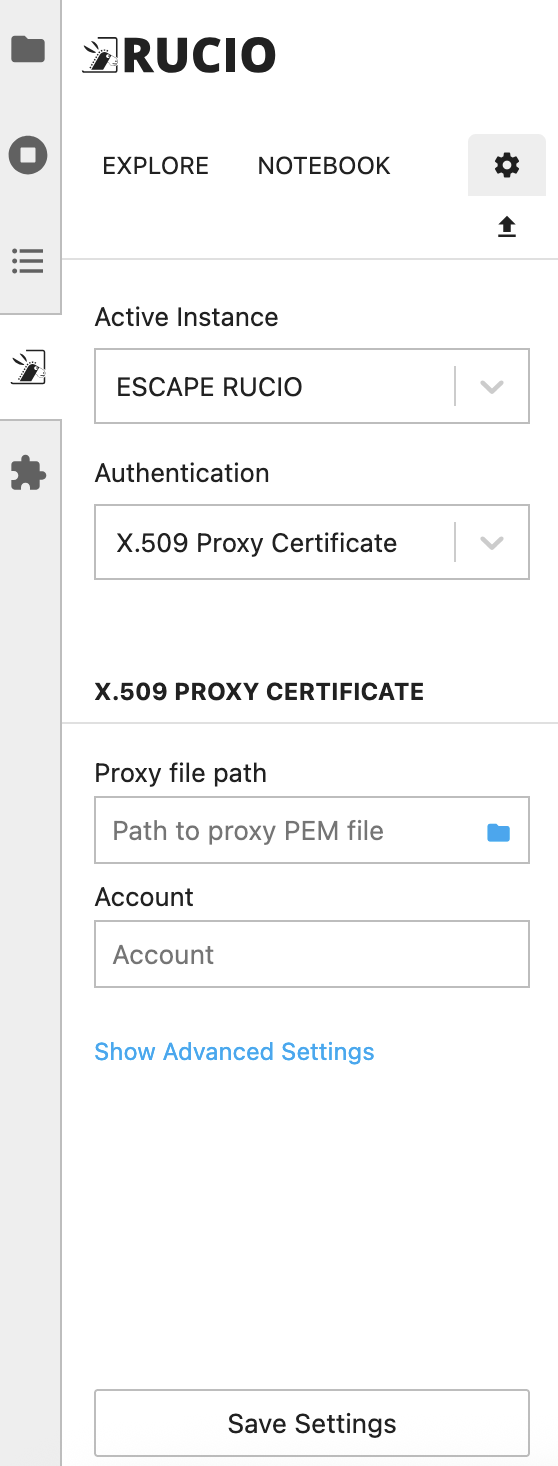
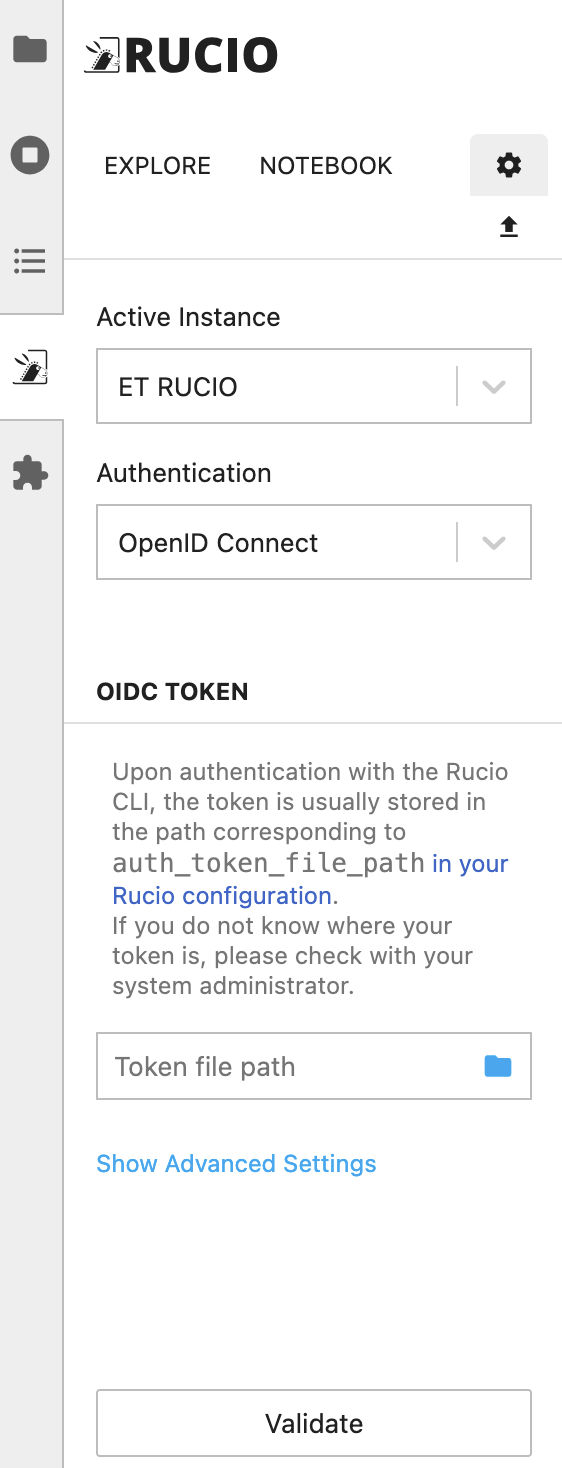
Update Rucio user docs

diff --git a/docs/source/user_guide.rst b/docs/source/user_guide.rst
@@ -237,27 +237,24 @@ Rucio enables centralized management of large volumes of data backed by many het
 The Rucio lab extension provides a user-friendly interface to interact with Rucio, allowing users to manage datasets, files, 
 and storage elements directly from JupyterLab.
 
-To use the Rucio lab extension, you need to have a **valid Rucio account** and the necessary permissions to access the data.
+The default Rucio deployment configured in the BETIF-DIFAET platform is the ``Rucio ET`` instance, specific for the Einstein 
+Telescope Virtual Organization (VO). 
 
-.. IMPORTANT::
+.. NOTE::
 
-   For the authentication, you can use VOMS proxies. To create a proxy, you can use the following command:
+   To use Rucio (and the corresponding lab extension), you need to have a **valid Rucio account** 
+   and the necessary permissions to access the data.
 
-   .. code-block:: bash
-
-      $ voms-proxy-init --voms <VO_NAME> -old --key .globus/userkey.pem --cert .globus/usercert.pem
-   
-   Replace `<VO_NAME>` with the name of your Virtual Organization (e.g., ``escape``). The ``.globus/userkey.pem`` and 
-   ``.globus/usercert.pem`` files are the private key and certificate files, respectively, that you can obtain from your GRID 
-   credentials.
+The default authentication method for Rucio is **OpenID Connect (OIDC)**, which allows users to authenticate using the same Einstein 
+Telescope IAM credentials already used to access the JupyterLab environment.
 
 To use the Rucio lab extension, follow these steps:
 
 1. **Open the Rucio lab extension**: Click on the Rucio icon in the JupyterLab sidebar;
 
-2. **Authenticate**: Go to the **Settings** icon, as shown in :numref:`rucio-settings`. Under ``Proxy file path``, enter the path
-to your VOMS proxy file (normally in ``/tmp/x509up_u0``). Under ``account`` enter your Rucio account name. Click on ``Save Settings``
-to confirm.
+2. **Authenticate**: Go to the **Settings** icon, as shown in :numref:`rucio-settings`. Simply click on the ``Validate`` button to 
+authenticate with your IAM credentials. The Rucio lab extension will automatically retrieve the necessary token and configure the 
+connection to the Rucio ET instance.
 
 .. _rucio-settings:
 
@@ -270,11 +267,32 @@ to confirm.
 3. **Browse datasets**: Use the Rucio lab extension to browse datasets, containers, and files. You can also include datasets in your 
    JupyterLab notebooks by clicking on the dataset and selecting the option to include it in your notebook.
 
+Other Rucio instances (e.g., the one used by the ESCAPE VO) can also be selected, but they might require different authentication methods.
+
+For example, you may want to configure the Rucio lab extension using your VOMS proxy file and Rucio account name. To do so, in the Rucio 
+lab extension settings, select **X509 Proxy certificate** as the authentication method. Then, under ``Proxy file path``, enter the path to 
+your VOMS proxy file (typically ``/tmp/x509up_u0``), and under ``account`` enter your Rucio account name. 
+Finally, click ``Save Settings`` to save the configuration and authenticate.
+
+.. IMPORTANT::
+
+   To create a proxy, you can use the following command:
+
+   .. code-block:: bash
+
+      $ voms-proxy-init --voms <VO_NAME> -old --key .globus/userkey.pem --cert .globus/usercert.pem
+   
+   Replace `<VO_NAME>` with the name of your Virtual Organization (e.g., ``escape``). The ``.globus/userkey.pem`` and 
+   ``.globus/usercert.pem`` files are the private key and certificate files, respectively, that you can obtain from your GRID 
+   credentials.
+
 .. NOTE::
 
    While not strictly necessary, Rucio is also available as a **command line interface (CLI)** tool. This is independent of the lab extension
-   and can be used to interact with Rucio from the terminal. To use the CLI, you need to create a configuration file named ``rucio.cfg``, with
-   the following content:
+   and can be used to interact with Rucio from the terminal. By default, the ET Rucio instance is already configured in the JupyterLab environment,
+   and you can use the CLI without any additional configuration (e.g. ``rucio whoami``).
+   
+   In case you want to use a *different* Rucio instance, you need to create a configuration file named ``rucio.cfg``. As an example:
 
    .. code-block:: ini
 
